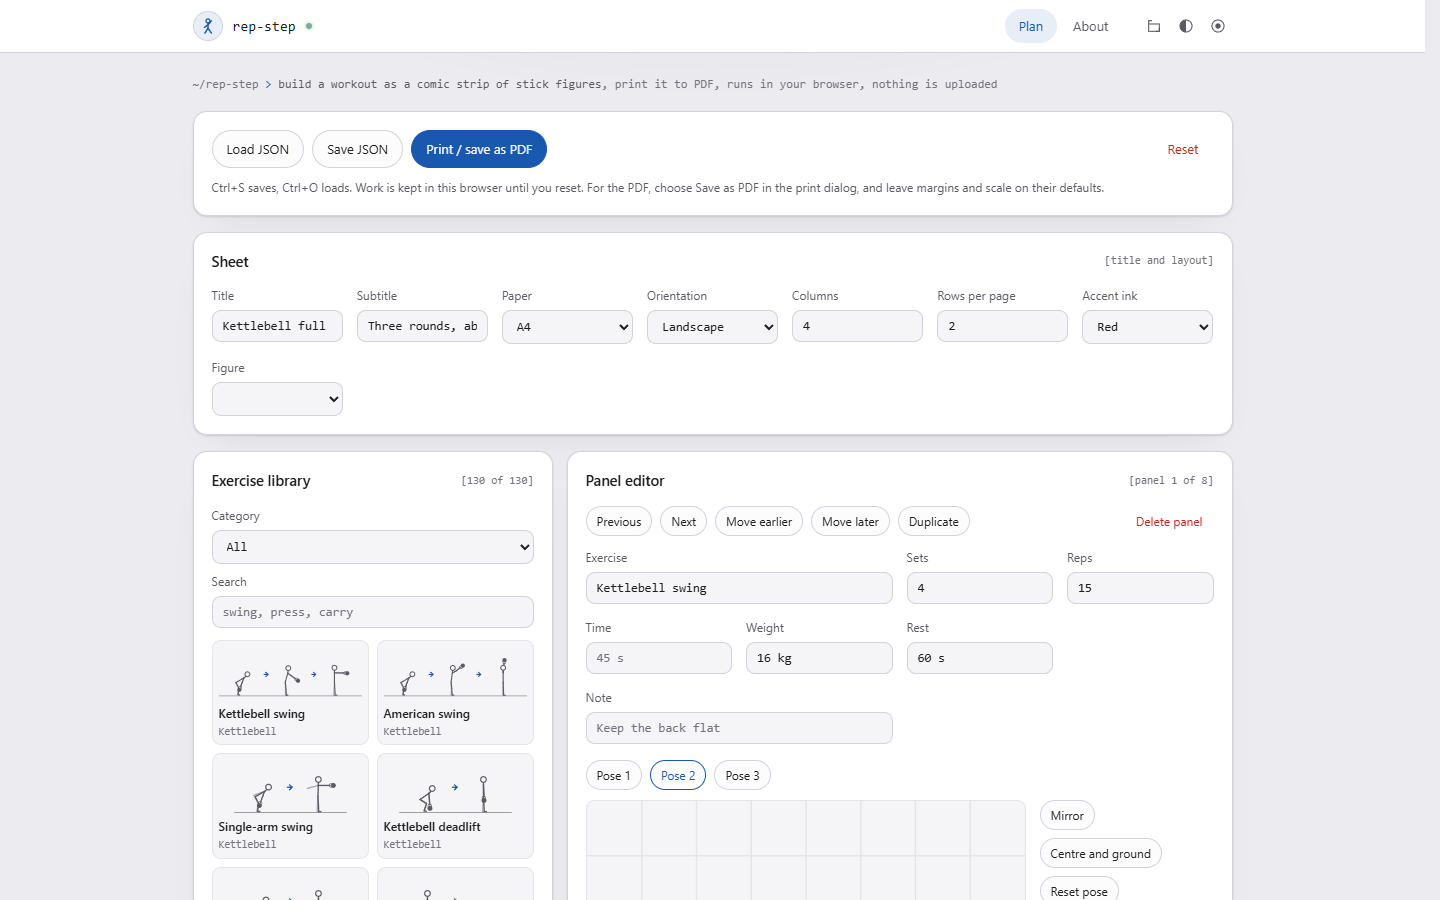
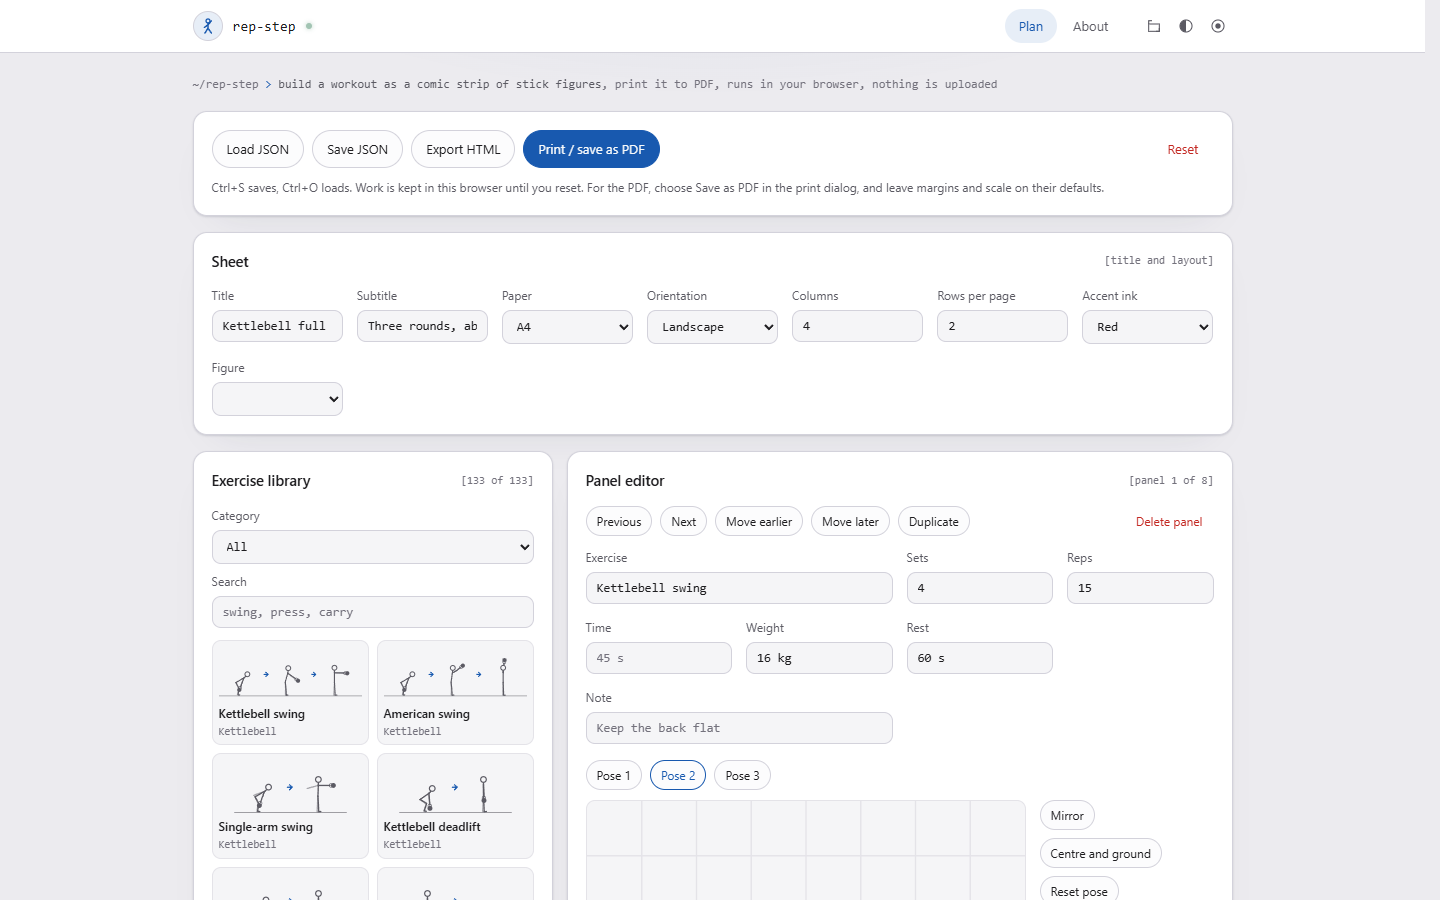
Add two-hand overhead press, seated halo and an HTML export
Two-hand overhead press and Seated side-to-side + halo come from the Kettlebell
Complex guide (the press is the card the guide labels Wood Chops). The seated
halo gets a second panel, Seated halo, for the full circle, since a panel holds
three poses.

Export HTML writes the sheets as one standalone, script-free page built from
the same markup and the same CSS block as the preview.

Changed region(s): [[0.2812, 0.1244, 0.4688, 0.1867]]

diff --git a/index.html b/index.html
@@ -1123,7 +1123,10 @@ label.f.grow { flex: 1 1 200px; }
     font-size: 12.5px;
 }
 
-/* Drawing: the figure takes its colours from whichever scope it sits in */
+</style>
+<style id="sheetCss">
+/* Drawing: the figure takes its colours from whichever scope it sits in. This block, together with the page rule,
+   is also written into the HTML export, so the exported sheet is styled by exactly the same rules as the preview. */
 .edsvg, .thumb { --ink: var(--fg); --paper: var(--card); --tint: var(--raised); --spot: var(--accent); }
 .thumb { --ink: var(--fg-dim); --paper: var(--sunken); }
 svg .ln { fill: none; stroke: var(--ink); stroke-width: 3.8; stroke-linecap: round; stroke-linejoin: round; }
@@ -1352,6 +1355,7 @@ svg .arr { fill: none; stroke: var(--spot); stroke-width: 3.6; stroke-linecap: r
             <div class="row">
                 <button class="btn" id="btnLoad">Load JSON</button>
                 <button class="btn" id="btnSave">Save JSON</button>
+                <button class="btn" id="btnHtml">Export HTML</button>
                 <button class="btn btn-primary" id="btnPrint">Print / save as PDF</button>
                 <div class="spacer"></div>
                 <button class="btn btn-ghost btn-danger" id="btnReset">Reset</button>
@@ -1492,9 +1496,10 @@ svg .arr { fill: none; stroke: var(--spot); stroke-width: 3.6; stroke-linecap: r
         <div class="panel">
             <div class="panel-head"><h2>Saving</h2></div>
             <div class="prose">
-                Save JSON writes the whole plan to a file you can load again. The plan is also kept in this
-                browser automatically. Loaded files are checked and cleaned before use, so a damaged file
-                cannot put the tool into a bad state.
+                Save JSON writes the whole plan to a file you can load again. Export HTML writes the sheets
+                as a single page with no script in it, which you can open in any browser, share or print to
+                PDF. The plan is also kept in this browser automatically. Loaded files are checked and
+                cleaned before use, so a damaged file cannot put the tool into a bad state.
             </div>
         </div>
         <div class="panel">
@@ -2178,6 +2183,11 @@ const LIB_SRC = [
         P({ ra: 176, rf: 176, la: -30, lf: -30 }, LG.stand)] },
     { id: "kb-press", name: "Strict press", cat: "Kettlebell", def: { sets: "4", reps: "6 each side", weight: "16 kg", rest: "75 s" },
       props: [KB_R], poses: [P(LG.stand, AR.rackR), P(LG.stand, AR.overR)] },
+    { id: "kb-two-hand-press", name: "Two-hand overhead press", cat: "Kettlebell", def: { sets: "3", reps: "10", weight: "12 kg", rest: "60 s", note: "Hold the bell by the horns, press tall" },
+      props: [KB_B], poses: [
+        P(LG.stand, AR.goblet),
+        P(LG.stand, { ra: 125, rf: 168, la: 123, lf: 166 }),
+        P(LG.straight, AR.up)] },
     { id: "kb-push-press", name: "Push press", cat: "Kettlebell", def: { sets: "4", reps: "6 each side", weight: "16 kg", rest: "75 s" },
       props: [KB_R], poses: [
         P(LG.stand, AR.rackR),
@@ -2211,6 +2221,16 @@ const LIB_SRC = [
         P(LG.stand, AR.goblet),
         P(LG.stand, { ra: 140, rf: 165, la: 138, lf: 163 }),
         P(LG.stand, { ra: 150, rf: -78, la: 148, lf: -80 })] },
+    { id: "kb-seated-side-halo", name: "Seated side-to-side + halo", cat: "Kettlebell", def: { sets: "3", reps: "8 each way", weight: "8 kg", rest: "45 s", note: "Touch down, halo through the middle, touch the other side" },
+      props: [KB_B], poses: [
+        { t: 180, h: 178, rt: 88, rs: 88, lt: 86, ls: 86, ra: 97, rf: 0, la: 95, lf: 0 },
+        { t: 180, h: 178, rt: 88, rs: 88, lt: 86, ls: 86, ra: 176, rf: 176, la: 174, lf: 174 },
+        { t: 180, h: 178, rt: 88, rs: 88, lt: 86, ls: 86, ra: -90, rf: 0, la: -92, lf: 0 }] },
+    { id: "kb-seated-halo", name: "Seated halo", cat: "Kettlebell", def: { sets: "3", reps: "8 each way", weight: "8 kg", rest: "45 s", note: "Sit tall, bell close to the head" },
+      props: [KB_B], poses: [
+        { t: 180, h: 178, rt: 88, rs: 88, lt: 86, ls: 86, ra: 30, rf: 150, la: 28, lf: 148 },
+        { t: 180, h: 178, rt: 88, rs: 88, lt: 86, ls: 86, ra: 140, rf: 165, la: 138, lf: 163 },
+        { t: 180, h: 178, rt: 88, rs: 88, lt: 86, ls: 86, ra: 150, rf: -78, la: 148, lf: -80 }] },
     { id: "kb-around-world", name: "Around the world", cat: "Kettlebell", def: { sets: "3", reps: "8 each way", weight: "8 kg", rest: "45 s", note: "Pass it around the waist, tight" },
       props: [KB_B], poses: [
         P(LG.stand, { ra: 28, rf: 14, la: 26, lf: 12 }),
@@ -2911,6 +2931,42 @@ function saveJson() {
     download(fname("json"), JSON.stringify(out, null, 2), "application/json");
     notify("Saved");
 }
+/* A standalone page of the sheets: no script, no network, the same markup and rules as the preview. It opens in any
+   browser and prints to PDF the same way. It is built as a document and serialised, so nothing is written through
+   innerHTML and every text value is escaped by the serialiser. */
+function exportHtml() {
+    const title = state.meta.title.trim() || "Workout";
+    const doc = document.implementation.createHTMLDocument(title);
+    const meta = attrs => { const m = doc.createElement("meta"); Object.keys(attrs).forEach(k => m.setAttribute(k, attrs[k])); return m; };
+    const root = getComputedStyle(document.documentElement);
+    const css = ":root { --ui: " + root.getPropertyValue("--ui") + "; --font: " + root.getPropertyValue("--font") + "; --gap: 14px; --shadow-lift: 0 6px 24px -8px rgba(0, 0, 0, 0.35); }\n"
+        + $("#sheetCss").textContent + "\n" + $("#pageStyle").textContent + "\n"
+        + "html { background: #e4e2da; }\n"
+        + "body { margin: 0; padding: 24px 12px; display: flex; flex-direction: column; align-items: center; gap: 20px; }\n"
+        + "@media print { html, body { background: #ffffff !important; } body { display: block; padding: 0; } .sheet { margin: 0; } }\n";
+    const style = doc.createElement("style");
+    style.textContent = css;
+    doc.head.prepend(
+        meta({ charset: "utf-8" }),
+        meta({ name: "viewport", content: "width=device-width, initial-scale=1" }),
+        meta({ "http-equiv": "Content-Security-Policy", content: "default-src 'none'; style-src 'unsafe-inline'; img-src data:; base-uri 'none'; form-action 'none'" }),
+        meta({ name: "referrer", content: "no-referrer" }),
+        meta({ name: "robots", content: "noindex" }),
+        meta({ name: "generator", content: APP.id + " " + APP.version })
+    );
+    doc.head.append(style);
+    $$("#sheets .sheet").forEach(sheet => {
+        const c = sheet.cloneNode(true);
+        c.style.zoom = "";
+        c.querySelectorAll(".cell").forEach(cell => {
+            cell.classList.remove("sel");
+            ["tabindex", "role", "aria-label"].forEach(a => cell.removeAttribute(a));
+        });
+        doc.body.append(c);
+    });
+    download(fname("html"), "<!DOCTYPE html>\n" + doc.documentElement.outerHTML, "text/html");
+    notify("Exported");
+}
 function loadJson(text) {
     let d;
     try { d = JSON.parse(text); }
@@ -3333,6 +3389,7 @@ function render() {
 
 /* ---------- toolbar ---------- */
 $("#btnSave").addEventListener("click", saveJson);
+$("#btnHtml").addEventListener("click", exportHtml);
 $("#btnLoad").addEventListener("click", () => $("#fileIn").click());
 $("#fileIn").addEventListener("change", e => {
     if (e.target.files[0]) read(e.target.files[0], loadJson);

diff --git a/README.md b/README.md
@@ -57,6 +57,8 @@ Four designs (cobalt, chamfer, console, contour), four modes (dark, dusk, sepia,
 
 ## Saving
 
+Export HTML writes the sheets as one standalone page: no script, no network and no dependencies, with a strict meta CSP of its own. It uses the same markup and the same CSS rules as the preview (the CSS comes from the `sheetCss` block in this file), in whichever figure style is selected, so it looks the same and prints to PDF the same way. Titles and notes are escaped by the serialiser, not by hand.
+
 Save JSON writes the whole plan. Load JSON reads it back, including files saved under the old name `rep-strip`. The plan is also autosaved to this browser. Everything read from a file or from storage is rebuilt field by field through `cleanState()`, so unknown keys are dropped, numbers are clamped and only known props are accepted.
 
 ## Layout
@@ -65,7 +67,7 @@ Panels are placed left to right. If the next panel will not fit in the row, the 
 
 ## Library
 
-130 starter exercises in ten categories: Kettlebell (46, including double-bell work, carries, Turkish get-up, snatch, windmill, halo, around the world, side swing and wood chop), Dumbbell, Barbell, Legs, Push, Pull, Core (with single-leg raise, Pilates hundred and roll-up), Cardio (with running, jump rope, spinning and the rowing machine), Stretch (with yoga poses such as downward dog, chair and tree) and Mobility (with thread the needle and deep squat). Filter by category or search by name. They live in `LIB_SRC` as plain angle objects, and `buildLib()` grounds and centres each one. To add an exercise, copy an entry and change the angles. Poses are approximations, so expect to nudge some in the editor. The least convincing are the floor poses (child's pose, sit-up, hollow and V-sit holds, knees to chest, thread the needle), side plank and step-up.
+133 starter exercises in ten categories: Kettlebell (49, including double-bell work, carries, Turkish get-up, snatch, windmill, halo, seated halo, two-hand overhead press, around the world, side swing and wood chop), Dumbbell, Barbell, Legs, Push, Pull, Core (with single-leg raise, Pilates hundred and roll-up), Cardio (with running, jump rope, spinning and the rowing machine), Stretch (with yoga poses such as downward dog, chair and tree) and Mobility (with thread the needle and deep squat). Filter by category or search by name. They live in `LIB_SRC` as plain angle objects, and `buildLib()` grounds and centres each one. To add an exercise, copy an entry and change the angles. Poses are approximations, so expect to nudge some in the editor. The least convincing are the floor poses (child's pose, sit-up, hollow and V-sit holds, knees to chest, thread the needle), side plank and step-up.
 
 ## Known gaps
 
